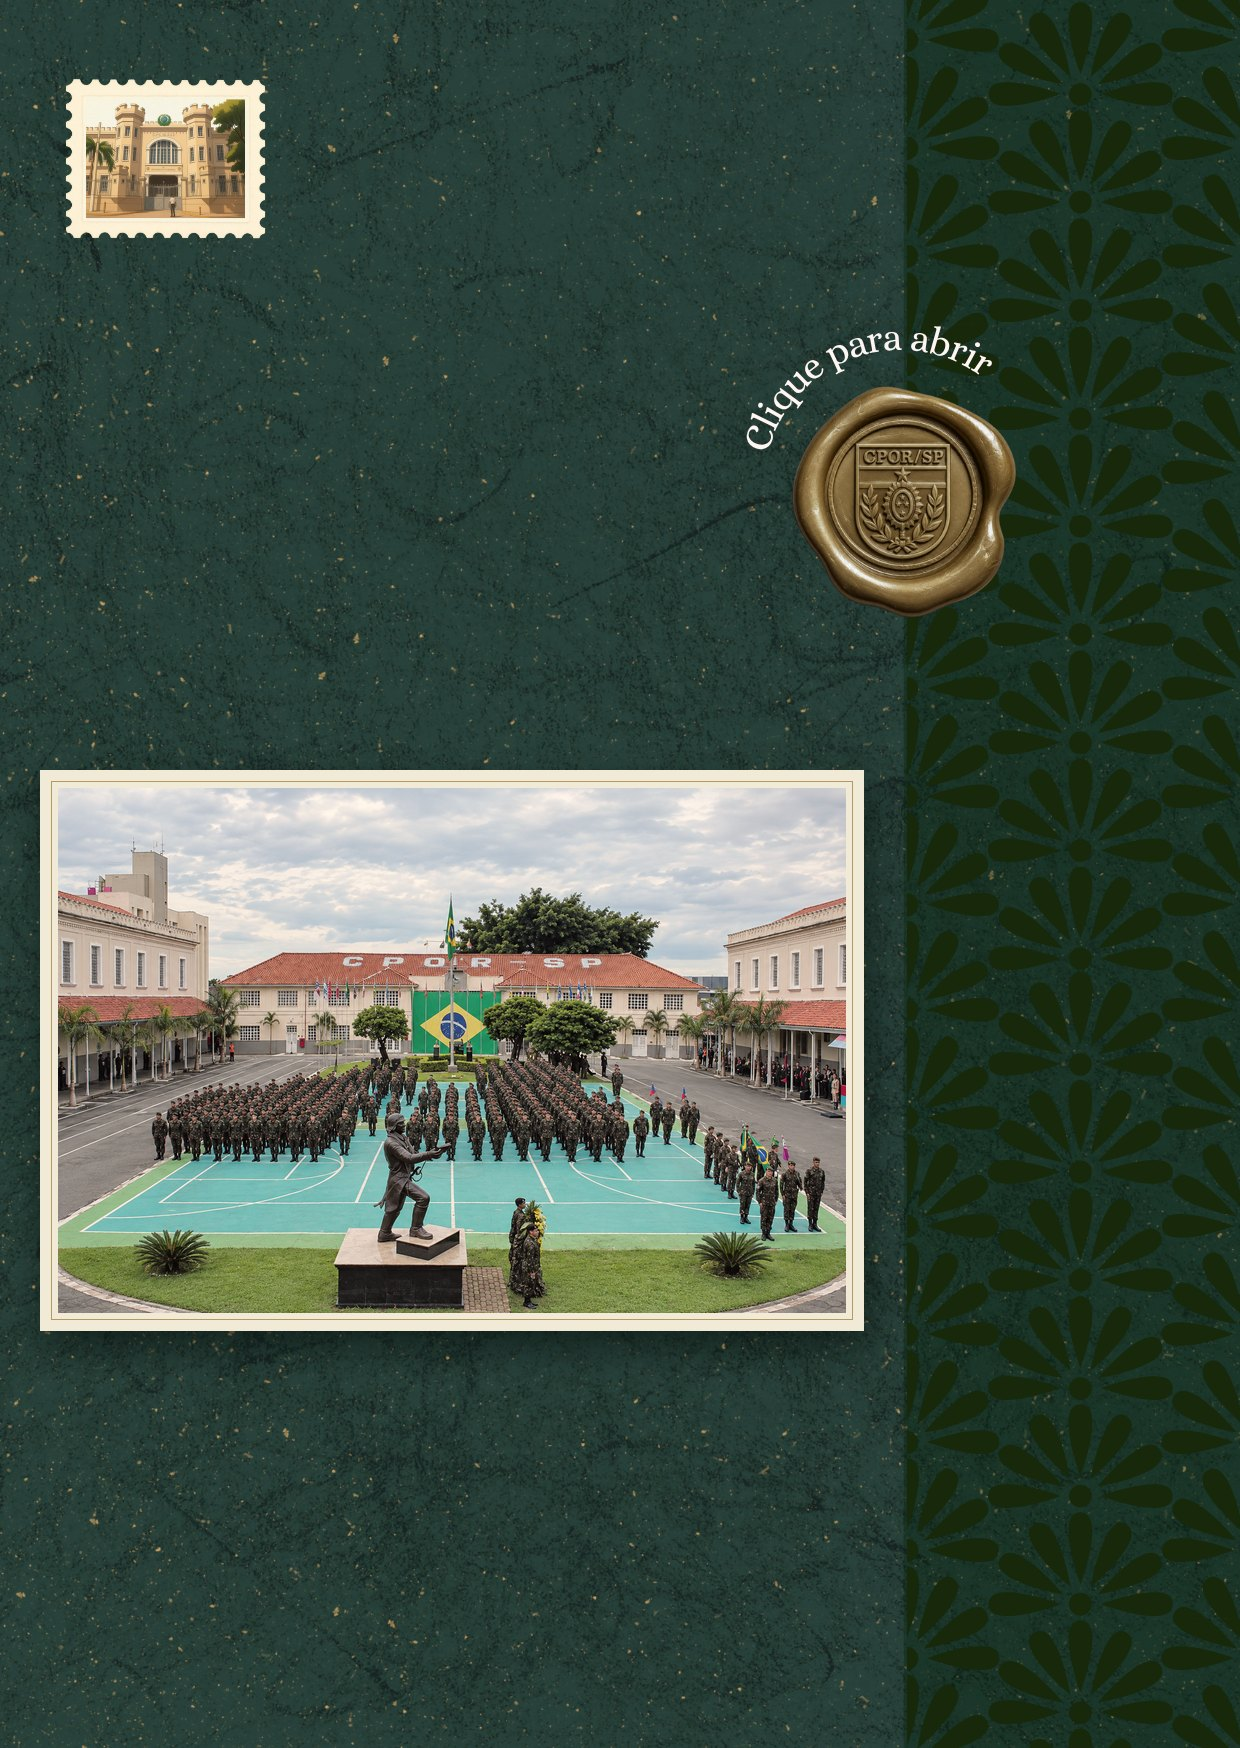
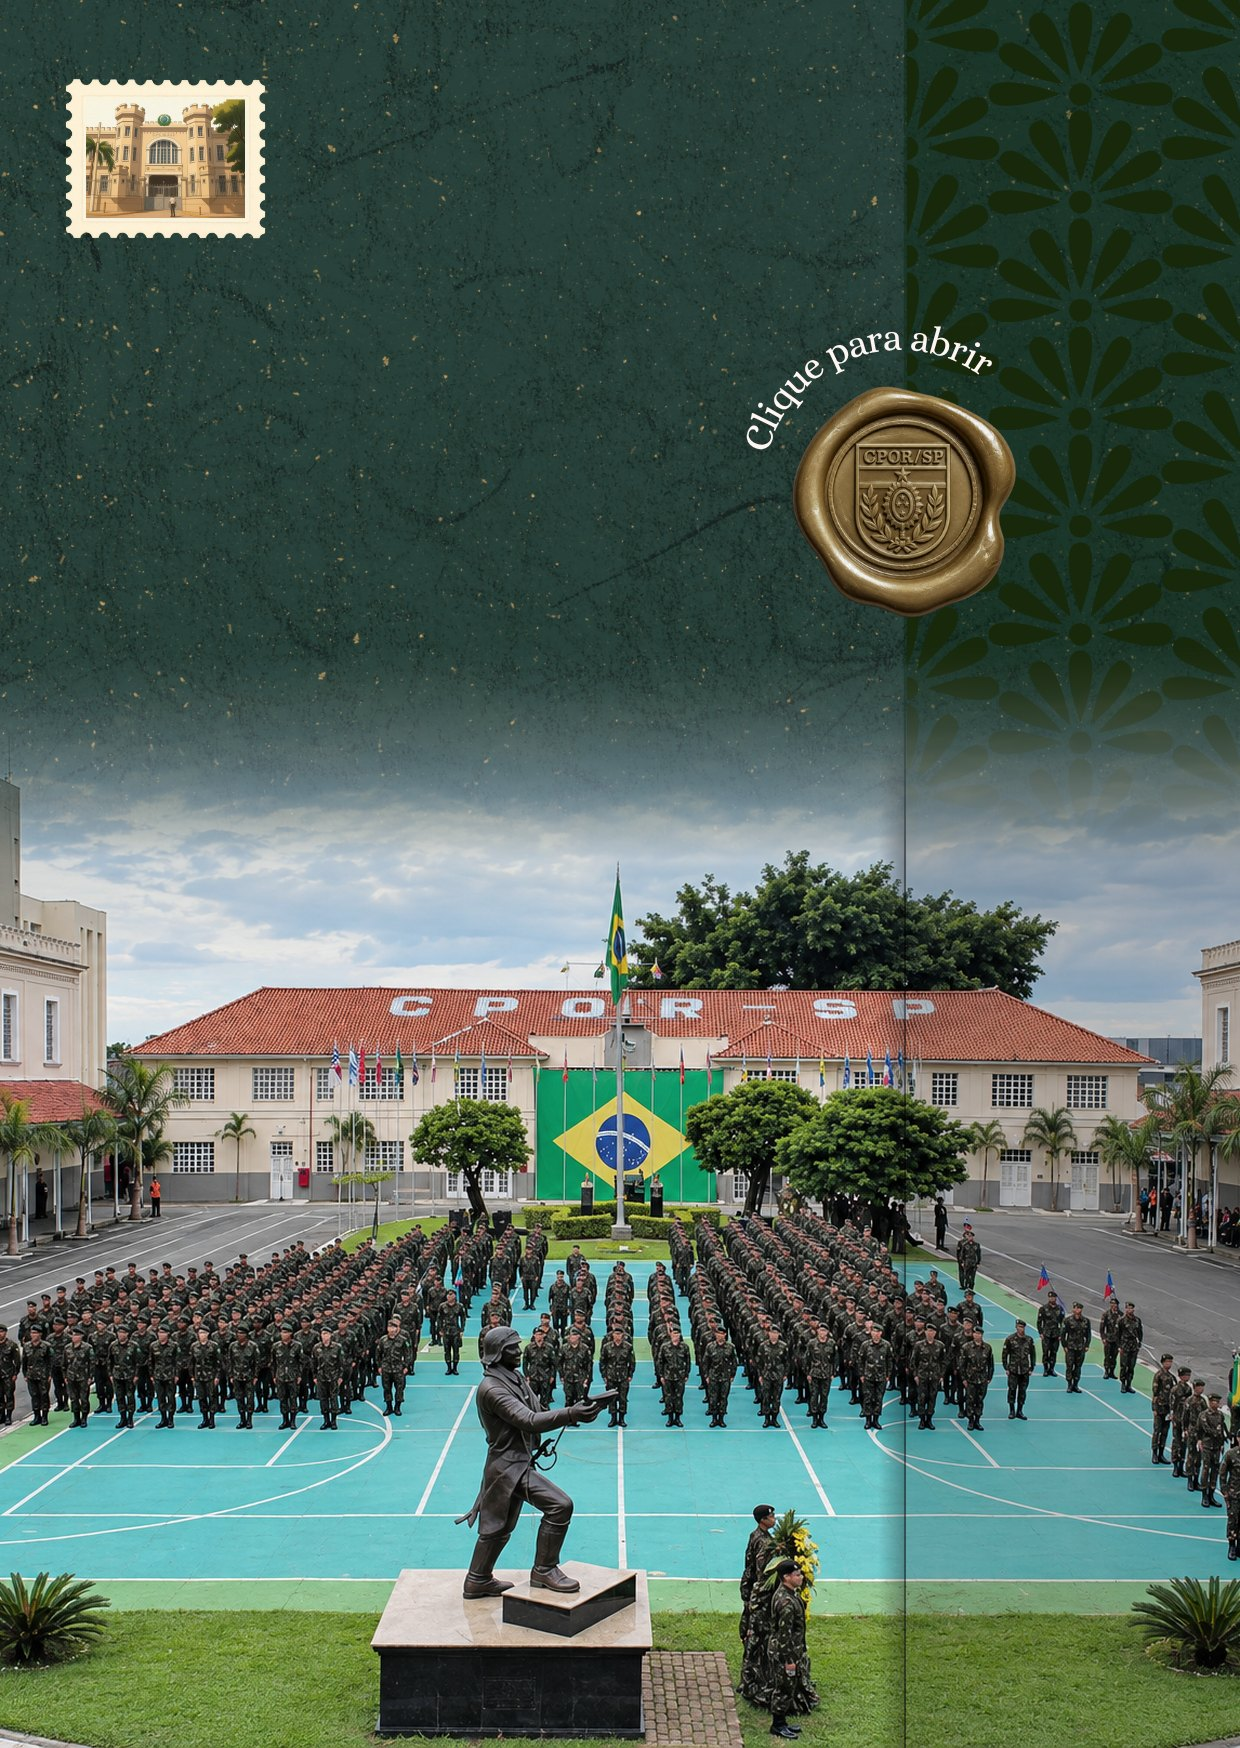
Botão Confirmar presença no lugar do QR code; capa 3 com foto na parte de baixo
- Remove o QR code da arte do convite
- Link de confirmação provisório (google.com)
- Abas abertas não bloqueiam mais o toque no cartão

Claude-Session: https://claude.ai/code/session_01V1TRpwwDnXHGDhL8kQ61XA

diff --git a/capa-foto.html b/capa-foto.html
@@ -111,7 +111,35 @@
     background: var(--creme);
   }
   .face img { display: block; width: 100%; height: 100%; }
-  .face.verso { transform: rotateY(180deg); }
+  .face.verso { transform: rotateY(180deg); container-type: inline-size; }
+
+  /* Botão de confirmação no verso, no lugar do antigo QR code (85% da altura da arte) */
+  .rsvp {
+    position: absolute;
+    left: 50%;
+    top: 85.2%;
+    transform: translate(-50%, -50%);
+    display: inline-flex;
+    align-items: center;
+    justify-content: center;
+    white-space: nowrap;
+    padding: .9em 1.35em .85em;
+    font: 600 11px/1 "Cormorant Garamond", Georgia, serif;
+    font-size: 2.6cqw;
+    letter-spacing: .13em;
+    text-transform: uppercase;
+    text-decoration: none;
+    color: var(--creme);
+    background: var(--tinta);
+    border: 1px solid var(--tinta);
+    border-radius: 2px;
+    box-shadow: inset 0 0 0 .28em var(--tinta), inset 0 0 0 calc(.28em + 1px) var(--dourado);
+    visibility: hidden;
+    transition: visibility 0s .55s;
+  }
+  .verso-visivel .rsvp { visibility: visible; }
+  @media (hover: hover) { .rsvp:hover { background: #2a4639; box-shadow: inset 0 0 0 .28em #2a4639, inset 0 0 0 calc(.28em + 1px) var(--dourado); } }
+  .rsvp:focus-visible { outline: 2px solid var(--dourado); outline-offset: 3px; }
   /* Sombra do cartão enquanto está dentro do envelope */
   .face .sombra-dentro {
     position: absolute;
@@ -127,6 +155,7 @@
     position: absolute;
     top: 0;
     bottom: 0;
+    pointer-events: none;
     transform-style: preserve-3d;
     transition: transform .3s ease-out 1.55s;
   }
@@ -276,6 +305,8 @@
           </div>
           <div class="face verso">
             <img draggable="false" src="assets/convite-3.jpg" alt="Convite para a Solenidade de Passagem de Comando do CPOR/SP" width="1240" height="1748">
+            <!-- Link do formulário de confirmação (trocar pelo endereço do formulário) -->
+            <a class="rsvp" href="https://www.google.com" target="_blank" rel="noopener">Confirmar presença</a>
           </div>
         </div>
       </div>
@@ -427,6 +458,7 @@
 
     palco.addEventListener("pointerdown", function (e) {
       if (!podeAmpliar() || (e.pointerType === "mouse" && e.button !== 0)) return;
+      if (e.target.closest(".rsvp")) return;   // deixa o link de confirmação funcionar
       try { palco.setPointerCapture(e.pointerId); } catch (_) {}
       pontos.set(e.pointerId, { x: e.clientX, y: e.clientY });
       if (pontos.size > 1) ultimoToque = null;

diff --git a/capa-marca-dagua.html b/capa-marca-dagua.html
@@ -111,7 +111,35 @@
     background: var(--creme);
   }
   .face img { display: block; width: 100%; height: 100%; }
-  .face.verso { transform: rotateY(180deg); }
+  .face.verso { transform: rotateY(180deg); container-type: inline-size; }
+
+  /* Botão de confirmação no verso, no lugar do antigo QR code (85% da altura da arte) */
+  .rsvp {
+    position: absolute;
+    left: 50%;
+    top: 85.2%;
+    transform: translate(-50%, -50%);
+    display: inline-flex;
+    align-items: center;
+    justify-content: center;
+    white-space: nowrap;
+    padding: .9em 1.35em .85em;
+    font: 600 11px/1 "Cormorant Garamond", Georgia, serif;
+    font-size: 2.6cqw;
+    letter-spacing: .13em;
+    text-transform: uppercase;
+    text-decoration: none;
+    color: var(--creme);
+    background: var(--tinta);
+    border: 1px solid var(--tinta);
+    border-radius: 2px;
+    box-shadow: inset 0 0 0 .28em var(--tinta), inset 0 0 0 calc(.28em + 1px) var(--dourado);
+    visibility: hidden;
+    transition: visibility 0s .55s;
+  }
+  .verso-visivel .rsvp { visibility: visible; }
+  @media (hover: hover) { .rsvp:hover { background: #2a4639; box-shadow: inset 0 0 0 .28em #2a4639, inset 0 0 0 calc(.28em + 1px) var(--dourado); } }
+  .rsvp:focus-visible { outline: 2px solid var(--dourado); outline-offset: 3px; }
   /* Sombra do cartão enquanto está dentro do envelope */
   .face .sombra-dentro {
     position: absolute;
@@ -127,6 +155,7 @@
     position: absolute;
     top: 0;
     bottom: 0;
+    pointer-events: none;
     transform-style: preserve-3d;
     transition: transform .3s ease-out 1.55s;
   }
@@ -276,6 +305,8 @@
           </div>
           <div class="face verso">
             <img draggable="false" src="assets/convite-3.jpg" alt="Convite para a Solenidade de Passagem de Comando do CPOR/SP" width="1240" height="1748">
+            <!-- Link do formulário de confirmação (trocar pelo endereço do formulário) -->
+            <a class="rsvp" href="https://www.google.com" target="_blank" rel="noopener">Confirmar presença</a>
           </div>
         </div>
       </div>
@@ -427,6 +458,7 @@
 
     palco.addEventListener("pointerdown", function (e) {
       if (!podeAmpliar() || (e.pointerType === "mouse" && e.button !== 0)) return;
+      if (e.target.closest(".rsvp")) return;   // deixa o link de confirmação funcionar
       try { palco.setPointerCapture(e.pointerId); } catch (_) {}
       pontos.set(e.pointerId, { x: e.clientX, y: e.clientY });
       if (pontos.size > 1) ultimoToque = null;

diff --git a/index.html b/index.html
@@ -111,7 +111,35 @@
     background: var(--creme);
   }
   .face img { display: block; width: 100%; height: 100%; }
-  .face.verso { transform: rotateY(180deg); }
+  .face.verso { transform: rotateY(180deg); container-type: inline-size; }
+
+  /* Botão de confirmação no verso, no lugar do antigo QR code (85% da altura da arte) */
+  .rsvp {
+    position: absolute;
+    left: 50%;
+    top: 85.2%;
+    transform: translate(-50%, -50%);
+    display: inline-flex;
+    align-items: center;
+    justify-content: center;
+    white-space: nowrap;
+    padding: .9em 1.35em .85em;
+    font: 600 11px/1 "Cormorant Garamond", Georgia, serif;
+    font-size: 2.6cqw;
+    letter-spacing: .13em;
+    text-transform: uppercase;
+    text-decoration: none;
+    color: var(--creme);
+    background: var(--tinta);
+    border: 1px solid var(--tinta);
+    border-radius: 2px;
+    box-shadow: inset 0 0 0 .28em var(--tinta), inset 0 0 0 calc(.28em + 1px) var(--dourado);
+    visibility: hidden;
+    transition: visibility 0s .55s;
+  }
+  .verso-visivel .rsvp { visibility: visible; }
+  @media (hover: hover) { .rsvp:hover { background: #2a4639; box-shadow: inset 0 0 0 .28em #2a4639, inset 0 0 0 calc(.28em + 1px) var(--dourado); } }
+  .rsvp:focus-visible { outline: 2px solid var(--dourado); outline-offset: 3px; }
   /* Sombra do cartão enquanto está dentro do envelope */
   .face .sombra-dentro {
     position: absolute;
@@ -127,6 +155,7 @@
     position: absolute;
     top: 0;
     bottom: 0;
+    pointer-events: none;
     transform-style: preserve-3d;
     transition: transform .3s ease-out 1.55s;
   }
@@ -276,6 +305,8 @@
           </div>
           <div class="face verso">
             <img draggable="false" src="assets/convite-3.jpg" alt="Convite para a Solenidade de Passagem de Comando do CPOR/SP" width="1240" height="1748">
+            <!-- Link do formulário de confirmação (trocar pelo endereço do formulário) -->
+            <a class="rsvp" href="https://www.google.com" target="_blank" rel="noopener">Confirmar presença</a>
           </div>
         </div>
       </div>
@@ -427,6 +458,7 @@
 
     palco.addEventListener("pointerdown", function (e) {
       if (!podeAmpliar() || (e.pointerType === "mouse" && e.button !== 0)) return;
+      if (e.target.closest(".rsvp")) return;   // deixa o link de confirmação funcionar
       try { palco.setPointerCapture(e.pointerId); } catch (_) {}
       pontos.set(e.pointerId, { x: e.clientX, y: e.clientY });
       if (pontos.size > 1) ultimoToque = null;

diff --git a/README.md b/README.md
@@ -8,6 +8,8 @@ Convite interativo em uma página só (`index.html` + imagens em `assets/`).
 
 Os botões são estáticos; só a troca de página é animada.
 
+No verso, o botão **Confirmar presença** (no lugar do antigo QR code) abre o formulário. Por enquanto aponta para https://www.google.com; para trocar, edite o `href` da classe `rsvp` no `index.html` e gere as outras capas de novo.
+
 O cartão aberto pode ser ampliado com os gestos de sempre: pinça ou dois toques no celular; Ctrl + rolagem, pinça no trackpad, Ctrl e + ou duplo clique no computador. Ampliado, dá para arrastar. Ao virar ou fechar, ele volta ao tamanho normal.
 
 ## Publicar
@@ -22,6 +24,6 @@ As três ficam lado a lado em `opcoes.html`.
 Só a capa (envelope) muda; o resto é igual.
 - `index.html` — capa original
 - `capa-marca-dagua.html` — brasão do CPOR/SP nas cores originais, grande e centralizado na parte lisa
-- `capa-foto.html` — foto aérea do CPOR/SP como uma fotografia sobre o papel, maior, logo abaixo do selo
+- `capa-foto.html` — foto aérea do CPOR/SP como uma fotografia sobre o papel, ocupando toda a parte de baixo da capa, com a linha da aba aparente
 
 Se mudar algo no `index.html`, gere as outras duas de novo trocando `assets/convite-1.jpg` por `assets/convite-1-marca.jpg` ou `assets/convite-1-foto.jpg`.
